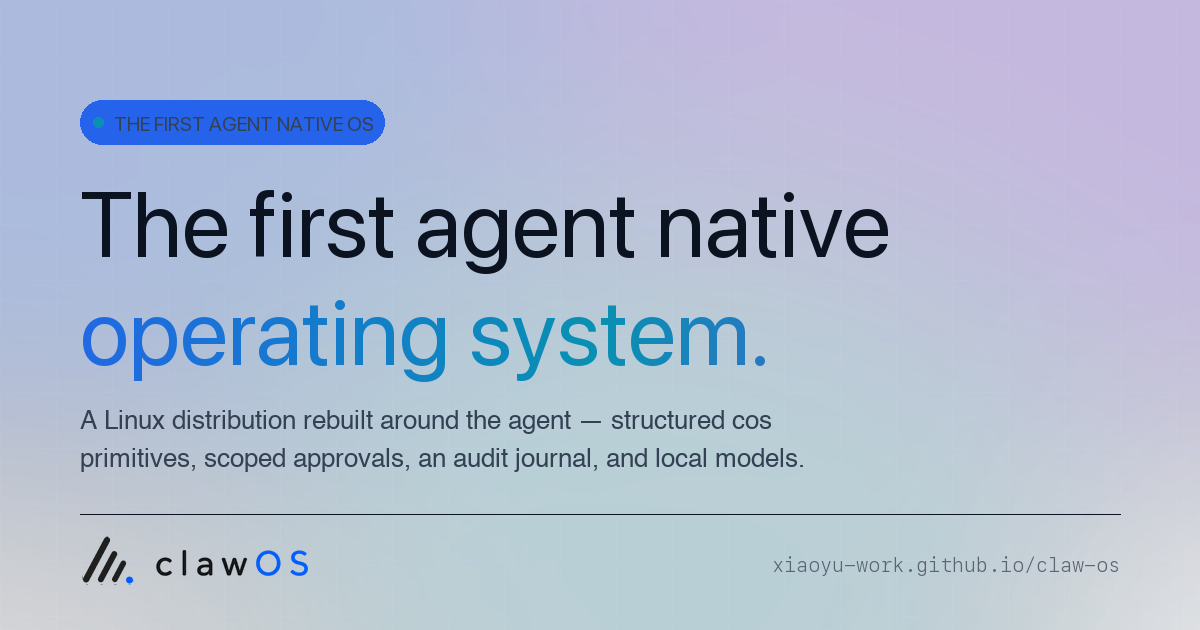
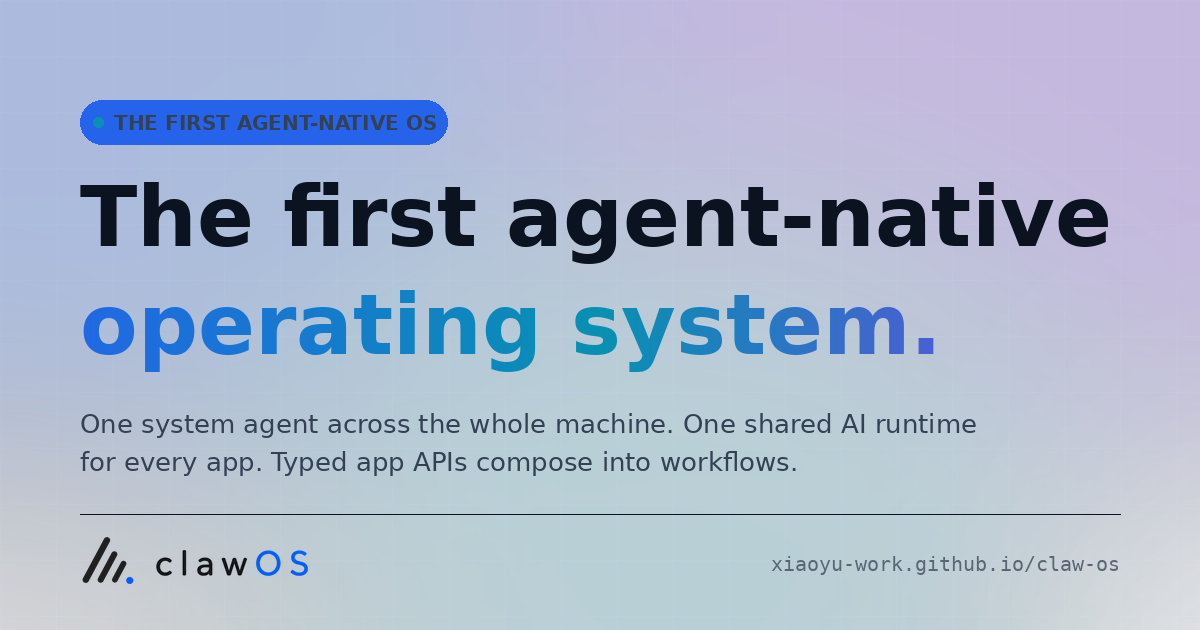
docs: align website with agent-native vision

diff --git a/packaging/apt-repo/site/index.html b/packaging/apt-repo/site/index.html
@@ -5,8 +5,8 @@
 <meta name="viewport" content="width=device-width, initial-scale=1, viewport-fit=cover">
 <meta name="color-scheme" content="light">
 <meta name="theme-color" content="#ffffff">
-<title>Claw OS — The first agent native operating system</title>
-<meta name="description" content="Claw OS is a complete Linux distribution rebuilt for AI agents. Structured cos primitives, scoped approvals, a system-level broker, and local model runtime — instead of letting agents guess at the shell.">
+<title>Claw OS — The first agent-native operating system</title>
+<meta name="description" content="Claw OS is a complete Linux distribution built around one system agent and shared model runtime. The agent understands the machine, apps use system AI, and typed app APIs compose into workflows.">
 
 <link rel="icon" type="image/png" sizes="64x64" href="assets/brand/clawos-favicon-64.png">
 <link rel="apple-touch-icon" sizes="192x192" href="assets/brand/clawos-icon-192.png">
@@ -15,16 +15,16 @@
 <link rel="stylesheet" href="https://rsms.me/inter/inter.css">
 <link rel="stylesheet" href="style.css?v=@@GIT_SHA@@">
 
-<meta property="og:title" content="Claw OS — The first agent native operating system">
-<meta property="og:description" content="A complete Linux distribution rebuilt for AI agents: structured cos primitives, scoped approvals, a system-level broker, and local model runtime.">
+<meta property="og:title" content="Claw OS — The first agent-native operating system">
+<meta property="og:description" content="One built-in agent across the whole system, one AI runtime for every app, and typed app APIs for cross-app workflows.">
 <meta property="og:type" content="website">
 <meta property="og:url" content="https://xiaoyu-work.github.io/claw-os/">
 <meta property="og:image" content="https://xiaoyu-work.github.io/claw-os/assets/brand/og.png">
 <meta property="og:image:width" content="1200">
 <meta property="og:image:height" content="630">
 <meta name="twitter:card" content="summary_large_image">
-<meta name="twitter:title" content="Claw OS — The first agent native operating system">
-<meta name="twitter:description" content="A complete Linux distribution rebuilt for AI agents.">
+<meta name="twitter:title" content="Claw OS — The first agent-native operating system">
+<meta name="twitter:description" content="One built-in agent across the system and every app.">
 <meta name="twitter:image" content="https://xiaoyu-work.github.io/claw-os/assets/brand/og.png">
 </head>
 <body>
@@ -67,10 +67,10 @@
           <span>operating system.</span>
         </h1>
         <p class="lede">
-          Claw OS is a complete Linux distribution rebuilt around the agent.
-          Structured <code>cos</code> primitives, scoped approvals, a
-          system-level broker, and a local model runtime — so an agent can
-          drive your machine without guessing at the shell.
+          Claw OS is a complete Linux distribution built around one system
+          agent and one shared model runtime. The agent understands the machine
+          and operates its apps; apps use system AI and expose typed operations
+          back to the agent — all through scoped approvals and audit.
         </p>
         <div class="cta-row">
           <a class="btn btn-primary" href="#install">
@@ -147,24 +147,26 @@
   <section class="section section-idea" id="why">
     <div class="container">
       <div class="kicker mono"><span class="kicker-dot"></span>the big idea</div>
-      <h2 class="h2">A shell wrapper can guess. An OS can <span class="gradient">guarantee</span>.</h2>
+      <h2 class="h2">One agent. Every app. <span class="gradient">The whole system.</span></h2>
       <p class="section-lede">
-        Most "AI for Linux" projects bolt an LLM onto bash. Claw OS instead
-        gives the agent typed operating-system surfaces, so every action is
-        named, gated, audited, and undoable.
+        AI is not a feature trapped inside one app. In Claw OS it is a shared
+        operating-system layer that understands the machine, provides
+        intelligence to apps, and uses apps as tools. System-level access
+        remains named, capability-gated, approved, and audited.
       </p>
 
       <div class="compare">
         <div class="compare-col compare-bad">
           <div class="compare-head mono">
             <svg width="14" height="14" viewBox="0 0 24 24" fill="none" aria-hidden="true"><path d="M6 6l12 12M18 6L6 18" stroke="currentColor" stroke-width="2" stroke-linecap="round"/></svg>
-            Bare Linux + a shell-wrapped LLM
+            AI added on top
           </div>
           <ul>
-            <li>Holds a wide <code>sudo</code> token; risky ops blend in with safe ones.</li>
-            <li>Every call is unaudited — no journal, no redaction, no replay.</li>
-            <li>Local model lifecycle, secrets, jobs each have ad-hoc tooling.</li>
-            <li>Agent-vs-user boundary is invisible to the OS.</li>
+            <li>Each assistant is isolated inside one app and sees one sandbox.</li>
+            <li>App permissions, activity, history, logs, and crashes stay fragmented.</li>
+            <li>Context disappears when the user moves from one app to another.</li>
+            <li>Every app embeds a model or rebuilds provider and credential plumbing.</li>
+            <li>Apps expose UI, not typed operations one agent can compose safely.</li>
           </ul>
         </div>
         <div class="compare-col compare-good">
@@ -173,10 +175,11 @@
             Claw OS
           </div>
           <ul>
-            <li>Every risky op is a typed capability and waits at an approval gate.</li>
-            <li>Every call lands in an append-only journal — replayable, redacted.</li>
-            <li>Models, engines, credentials, jobs are first-class kernel surfaces.</li>
-            <li>A boot-time <code>clawd</code> service owns the agent / user boundary.</li>
+            <li>One built-in agent spans processes, resources, services, and every app.</li>
+            <li>Scoped tools connect app access, history, logs, and crash evidence to system state.</li>
+            <li>Persistent, user-controlled memory carries context across the machine.</li>
+            <li>Every app calls the same local or cloud model layer through the SDK.</li>
+            <li>Apps publish typed APIs the agent can combine into cross-app workflows.</li>
           </ul>
         </div>
       </div>
@@ -197,7 +200,7 @@
         <article class="prim-card">
           <div class="prim-icon"><svg viewBox="0 0 24 24" fill="none"><path d="M4 7h16M4 12h16M4 17h10" stroke="currentColor" stroke-width="1.6" stroke-linecap="round"/></svg></div>
           <h3>agent</h3>
-          <p>OS-native agent runtime — sessions, tools, memory, skills, providers.</p>
+          <p>Built-in system agent — cross-app sessions, persistent memory, tools, skills, providers.</p>
           <pre class="prim-code mono"><span class="t-prompt">cos</span> agent ask "<em>find the largest files and tell me why</em>"</pre>
         </article>
 
@@ -252,7 +255,7 @@
         <article class="prim-card">
           <div class="prim-icon"><svg viewBox="0 0 24 24" fill="none"><path d="M12 3v3M12 18v3M3 12h3M18 12h3M5.6 5.6l2.1 2.1M16.3 16.3l2.1 2.1M5.6 18.4l2.1-2.1M16.3 7.7l2.1-2.1" stroke="currentColor" stroke-width="1.6" stroke-linecap="round"/><circle cx="12" cy="12" r="3.4" stroke="currentColor" stroke-width="1.6"/></svg></div>
           <h3>ai</h3>
-          <p>App-gated single-shot AI for installed Apps — chat, embed, image, audio, video, tools.</p>
+          <p>Shared local or cloud model gate for every app — chat, embed, image, audio, video, tools.</p>
           <pre class="prim-code mono"><span class="t-prompt">cos</span> ai chat --app notes --prompt "summarize today"
 <span class="t-prompt">cos</span> ai tool web.read --app notes --args '{"url":"…"}'</pre>
         </article>
@@ -384,11 +387,11 @@
       <div class="stack">
         <div class="stack-layer stack-layer-agent">
           <div class="stack-name mono">agent runtime</div>
-          <div class="stack-detail">Sessions, skills, tools, providers · <code>cos agent</code></div>
+          <div class="stack-detail">Sessions, memory, app tools, providers · <code>cos agent</code></div>
         </div>
         <div class="stack-layer stack-layer-cos">
           <div class="stack-name mono">cos · user-mode primitives</div>
-          <div class="stack-detail">sys · service · credential · cron · ai · agent · model · engine</div>
+          <div class="stack-detail">sys · service · credential · cron · app · ai · agent · model · engine</div>
         </div>
         <div class="stack-layer stack-layer-clawd">
           <div class="stack-name mono">clawd · system broker</div>
@@ -458,11 +461,11 @@
       <div class="faq">
         <details class="faq-item" open>
           <summary>What does "agent-native" actually mean?</summary>
-          <p>The agent isn't a chrome on top of bash. It has typed kernel
-          surfaces (<code>cos</code> primitives), a system-level broker
-          (<code>clawd</code>), capability + approval enforcement, and an
-          append-only audit journal. The OS itself knows when an agent is
-          acting and what it's allowed to do.</p>
+          <p>The agent is a shared system layer, not a chatbot inside one app.
+          It can reason across system state, installed apps, and persistent
+          memory; every app can use the system model runtime and expose typed
+          operations back to the agent. Capabilities, approvals, and the audit
+          journal keep that system-level access under user control.</p>
         </details>
         <details class="faq-item">
           <summary>Does Claw OS replace my distro?</summary>
@@ -480,6 +483,14 @@
           ort-genai) side-by-side. <code>cos model import</code> registers
           local files; <code>cos engine</code> manages native runtimes with
           per-version pinning and rollback.</p>
+        </details>
+        <details class="faq-item">
+          <summary>How do apps work with the agent and models?</summary>
+          <p>Apps use the Claw OS SDK in both directions: they call the shared
+          local or cloud model gate instead of shipping their own model stack,
+          and they publish typed operations with explicit permission scopes.
+          The agent can discover those operations and combine several apps into
+          one workflow.</p>
         </details>
         <details class="faq-item">
           <summary>What stops the agent from breaking my machine?</summary>

diff --git a/packaging/apt-repo/site/gen-og.py b/packaging/apt-repo/site/gen-og.py
@@ -77,7 +77,7 @@ def make() -> None:
     draw = ImageDraw.Draw(base)
 
     # ---- eyebrow chip ----
-    chip_text = "THE FIRST AGENT NATIVE OS"
+    chip_text = "THE FIRST AGENT-NATIVE OS"
     chip_font = _load_font(20, "bold")
     chip_w = draw.textlength(chip_text, font=chip_font)
     pad_x = 22
@@ -94,9 +94,17 @@ def make() -> None:
     draw.text((chip_x + 34, chip_y + 11), chip_text, font=chip_font, fill=(52, 64, 84, 255))
 
     # ---- title ----
-    title_font = _load_font(92, "bold")
-    line1 = "The first agent native"
+    line1 = "The first agent-native"
     line2 = "operating system."
+    title_size = 92
+    title_font = _load_font(title_size, "bold")
+    max_title_width = W - MARGIN * 2
+    while max(
+        draw.textlength(line1, font=title_font),
+        draw.textlength(line2, font=title_font),
+    ) > max_title_width:
+        title_size -= 2
+        title_font = _load_font(title_size, "bold")
     title_x = MARGIN
     title_y = 168
 
@@ -128,8 +136,8 @@ def make() -> None:
     # ---- lede ----
     draw = ImageDraw.Draw(base)
     lede_font = _load_font(26, "regular")
-    lede1 = "A Linux distribution rebuilt around the agent — structured cos"
-    lede2 = "primitives, scoped approvals, an audit journal, and local models."
+    lede1 = "One system agent across the whole machine. One shared AI runtime"
+    lede2 = "for every app. Typed app APIs compose into workflows."
     draw.text((title_x, title_y + 240), lede1, font=lede_font, fill=(52, 64, 84, 255))
     draw.text((title_x, title_y + 278), lede2, font=lede_font, fill=(52, 64, 84, 255))
 
